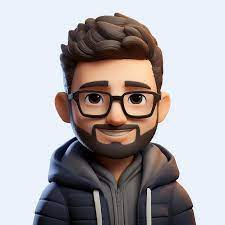
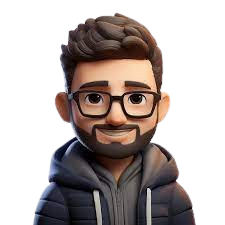
modified

Changed region(s): [[0.1244, 0.0311, 0.7156, 1.0], [0.6533, 0.2178, 0.9333, 1.0]]

diff --git a/src/components/Works.jsx b/src/components/Works.jsx
@@ -1,7 +1,6 @@
 import React from "react";
 import { projects } from "../data";
 
-
 const Works = () => {
   return (
     <div className='w-full flex flex-col py-20 px-8 md:px-10 gap-10 lg:gap-20 lg:py-20'>
@@ -9,7 +8,7 @@ const Works = () => {
         Projetcs
       </h4>
 
-      <div className='flex flex-wrap gap-10 lg:gap-20 justify-center '>
+      <div className=' flex flex-wrap gap-20 lg:gap-30 justify-center '>
         {projects.map((p, index) => (
           <div
             data-aos='fade-up'
@@ -18,17 +17,18 @@ const Works = () => {
             data-aos-duration='1000'
             data-aos-easing='ease-in-out'
             key={index}
-            className='w-[350px] h-[350px] cursor-pointer shadow-xl hover:scale-110 ease-in-out duration-300 rounded-md '
+            className='w-[350px] h-[150px] cursor-pointer shadow-xl hover:scale-110 ease-in-out duration-300 rounded-md mb-8'
           >
             <img
               src={p.img}
               alt={p.name}
-              className='w-full h-[300px] object-cover rounded-md '
+              className='w-full h-full object-cover rounded-md'
+              style={{ objectFit: 'contain' }}
             />
 
-            <div className='w-full h-[100px] bg-white dark:bg-[#04133e]'>
+            <div className='w-full h-100px bg-white dark:bg-[#04133e]'>
               <h4 className='text-2xl text-black dark:text-white font-semibold py-2 px-1 '>
-                {p.title}
+                <a href = {p.url}>{p.title}</a>
               </h4>
               <p className='text-sm text-orange-600 px-1 uppercase'>{p.cat}</p>
             </div>

diff --git a/src/data.js b/src/data.js
@@ -9,6 +9,9 @@ import {
   Reactjs,
   medicine,
   portf,
+  expense,
+  food,
+  beingmail
 
 } from "./assets";
 
@@ -21,14 +24,14 @@ export const projectStats = [
     name: "Website Design",
     value: "5",
   },
-  {
-    name: "Mobile App Design",
-    value: "",
-  },
-  {
-    name: "Clients worldwide",
-    value: "",
-  },
+  // {
+  //   name: "Mobile App Design",
+  //   value: "",
+  // },
+  // {
+  //   name: "Clients worldwide",
+  //   value: "",
+  // },
 ];
 
 export const tools = [
@@ -92,18 +95,45 @@ export const skills = [
 export const projects = [
   {
     id: 1,
-    title: "Admin Dashboard",
+    title: "Ilma Medcare",
     cat: "Web Design",
-    url: "",
+    url: "https://sahilkhan786000.github.io/ilma_healthcare.github.io/",
     img: medicine,
   },
   {
     id: 2,
-    title: "Portfolio Website",
+    title: "Portfolio",
     cat: "Web Design",
-    url: "",
+    url: "https://sahilkhan786000.github.io/portfolio.github.io/",
     img: portf,
   },
+
+  {
+    id: 3,
+    title: "Expense Tracker",
+    cat: "MERN Application",
+    url: "https://expense-tracker-yn48.onrender.com/",
+    img: expense,
+  },
+
+  {
+    id: 4,
+    title: "FoodAzal",
+    cat: "MERN Application",
+    url: "https://food-vs2u.onrender.com/",
+    img: food,
+  },
+
+ {
+
+  id: 5,
+  title: "BeingMail",
+  cat: "MERN Application",
+  url: "https://beingmail.onrender.com/main/emails/inbox",
+  img: beingmail,
+},
+
+
 
 ];
 

diff --git a/src/components/Header.jsx b/src/components/Header.jsx
@@ -35,7 +35,7 @@ const Header = () => {
         </p>
 
         <div className='mt-10 flex gap-10'>
-          <a href="/">
+          <a href="https://drive.google.com/file/d/1BHpjee-O6fhNV3TEKkPWR_m-yTavPq5S/view?usp=sharing">
           <button className=' hover:scale-110  bg-[radial-gradient(ellipse_at_top_left,_var(--tw-gradient-stops))] from-[#55079e] to-[#7f0c29] text-lg text-white font-semibold rounded-md py-3 px-5'>
             Resume 
           </button>
@@ -52,7 +52,7 @@ const Header = () => {
         <div className='w-[300px] h-[290px] md:w-[400px] md:h-[400px] 2xl:w-[500px] 2xl:h-[500px]  border rounded-full border-gray-600 dark:border-gray-200 relative  md:mt-20 lg:mt-0 flex items-center justify-center'>
           <img
             src={Profile}
-            className='w-auto h-full absolute -top-5 md:-top-10'
+            className='w-[350px] h-[350px] absolute -top-50 md:-top-15'
             data-aos='fade-down'
             data-aos-offset='200'
             data-aos-delay='50'

diff --git a/src/assets/index.js b/src/assets/index.js
@@ -14,14 +14,10 @@ export { default as HTML5 } from "./html.svg";
 export { default as Javascript } from "./javascript.svg";
 export { default as Python } from "./python.svg";
 
-export { default as admin } from "./work/admin.png";
+
 export { default as food } from "./work/food.png";
-export { default as food1 } from "./work/food1.jpg";
-export { default as port1 } from "./work/port1.png";
-export { default as port2 } from "./work/port2.png";
-export { default as port3 } from "./work/port3.png";
-export { default as social } from "./work/social.png";
+export { default as expense } from "./work/expense.png";
+export { default as beingmail } from "./work/beingmail.png";
 export { default as medicine } from "./work/medicine.png";
 export { default as portf } from "./work/portf.png";
-
 export { default as Profile } from "./profile.png";

diff --git a/src/components/Footer.jsx b/src/components/Footer.jsx
@@ -8,7 +8,7 @@ const Footer = () => {
     <footer>
       <hr className='hidden dark:block' />
 
-      <div className='w-full flex flex-col md:flex-row py-20 px-8 md:px-10 gap-10 lg:gap-20 justify-between '>
+      <div className='w-full flex flex-col md:flex-row py-5 px-8 md:px-5 gap-10 lg:gap-20 justify-between '>
         <p className='text-lg text-white font-semibold '>
           Address XYZ ST 128, IN
         </p>

diff --git a/src/components/Navbar.jsx b/src/components/Navbar.jsx
@@ -13,7 +13,7 @@ const Navbar = ({ darkMode, isOpen, toggleMenu, toggleTheme }) => {
             href='/'
             className='text-2xl font-bold text-blue-500 cursor-pointer '
           >
-            CodeWave
+            CodeAZAL
           </a>
           <ul className='hidden md:flex gap-10 text-lg text-slate-800 dark:text-gray-200'>
             <li className='cursor-pointer hover:text-blue-500'>

diff --git a/src/components/Project.jsx b/src/components/Project.jsx
@@ -30,7 +30,7 @@ const Project = () => {
       >
         {tools.map((t, index) => (
           <div className='flex gap-2 items-center bg-white rounded-md shadow-lg px-5 py-1 '>
-            <img src={t.icon} className='w-10 h-10' />
+            <img src={t.icon} className='w-8 h-5' />
             <p className=' text-black text-md'>{t.name}</p>
           </div>
         ))}
